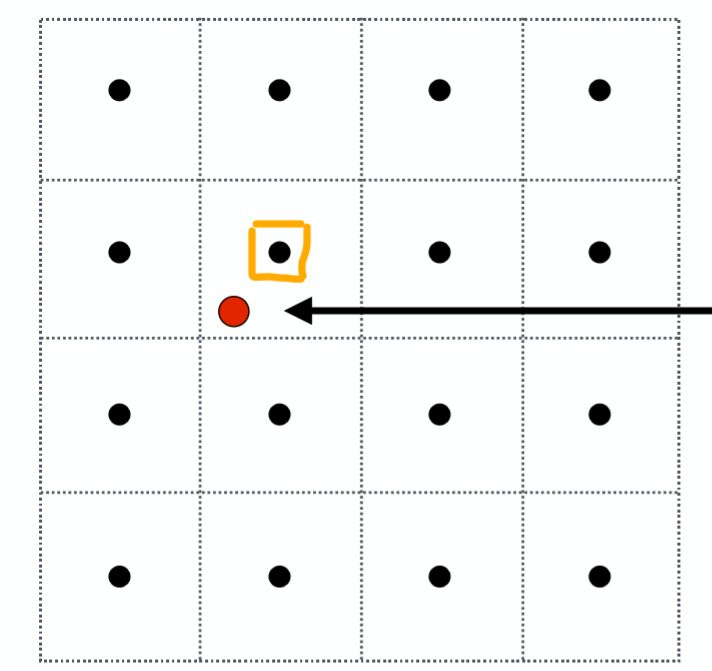
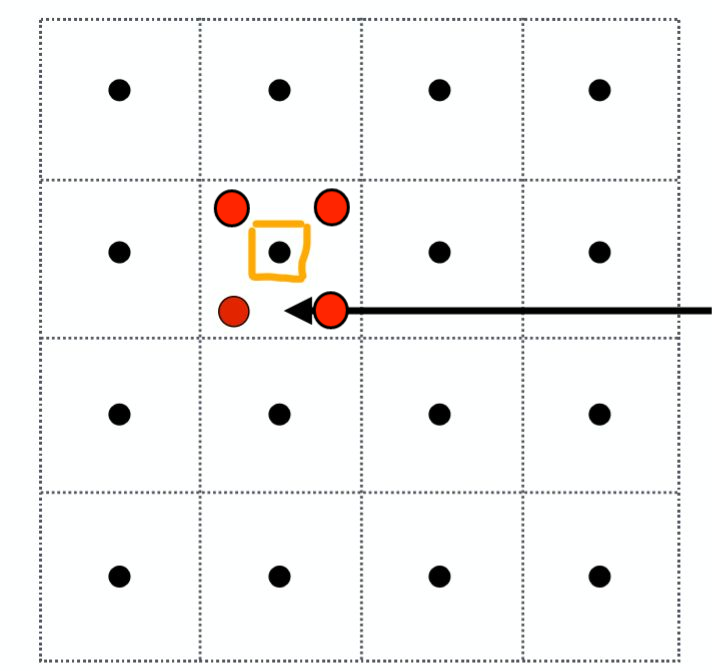
vault backup: 2024-03-25 22:10:58

Changed region(s): [[0.4326, 0.4173, 0.4944, 0.5067], [0.4326, 0.2683, 0.4944, 0.3577], [0.2781, 0.2683, 0.3708, 0.3577]]

diff --git a/图形学/1 图形系统/04 纹理.md b/图形学/1 图形系统/04 纹理.md
@@ -42,9 +42,9 @@ banner_y: 0.5
 
 # 2 纹理过滤
 
-在理解了纹理映射的基础之后，考虑如果纹理精度特别小 (reslution 低) 或者纹理精度特别大 (reslution 大) 会分别引起什么问题呢？
+在理解了纹理映射的基础之后，考虑如果纹理分辨率特别小或者纹理分辨率特别大会分别引起什么问题呢？
 
-### 2.1 纹理过小引发的问题
+### 2.1 纹理分辨率过小
 
 
 
@@ -52,7 +52,7 @@ banner_y: 0.5
 纹理过小的问题相对容易理解，想想我们把一张 100x100 的纹理贴图应用在一 500x500 的屏幕之上必然会导致走样失真，因为屏幕空间的几个像素点对应在纹理贴图的坐标上都是集中在一个纹素大小之内。那么如果仅仅是使用对应 (u, v) 坐标在采样贴图上距离最近的那个像素点，往往会**造成严重的走样**。
 ![[1684499674257.png||300]]
 
-黑点表示纹理的纹素，红点表示屏幕空间的像素采样点，**采样时最简单的办法是去选择离采样点临近的纹素（该方法称为最邻近采样 Nearest neighbor），那么该采样点采样得到的颜色就是该纹素的颜色。**
+黑点所在的方块表示纹理的一个纹素，红点表示屏幕空间的像素采样点，**采样时最简单的办法是去选择离采样点临近的纹素（该方法称为最邻近采样 Nearest neighbor），那么图中四个采样点采样得到的颜色都是同一个纹素的颜色。**
 
 这种方法往往会产生严重的走样，接下来会介绍利用双线性插值的方法缓解这种走样现象。
 
@@ -76,7 +76,7 @@ banner_y: 0.5
 最后以一张闫老师课上的例子看看这 3 种方法效果的对比
 ![[Pasted image 20230520102841.png|500]]
 
-### 2.3 纹理过大引发的问题
+### 2.3 纹理分辨率过大
 
 可能对于我们的第一直觉来说，纹理小确实会引发问题，但是纹理大那不是更好吗，为什么会引发问题呢？但事实是纹理过大所引发的走样甚至会更加严重。想象一张很大的地板，在上面铺满了重复的方格贴图，我们所期望看到的结果应该是这样的：
 

diff --git a/图形学/面经/图形学八股.md b/图形学/面经/图形学八股.md
@@ -379,7 +379,7 @@ Unity 中实现了基于屏幕空间的 shadow mapping
 [[09 阴影#阴影走样]]
 
 
-# PBR 相关
+# ⭐ PBR 相关
 
 ## 解释下 PBR？
 **基于物理的渲染**（Physically Based Rendering） 是指使用基于物理原理和微表面理论建模的着色模型，以及使用从现实中测量的表面参数来准确表示真实世界材质的渲染理念。
